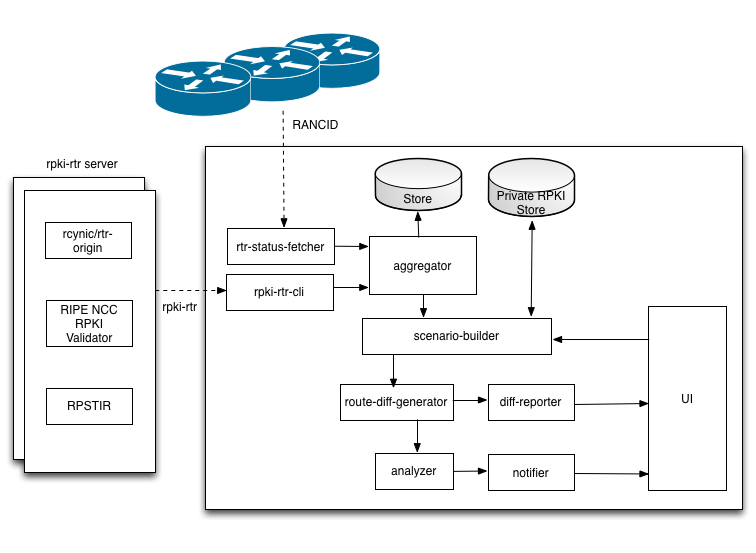
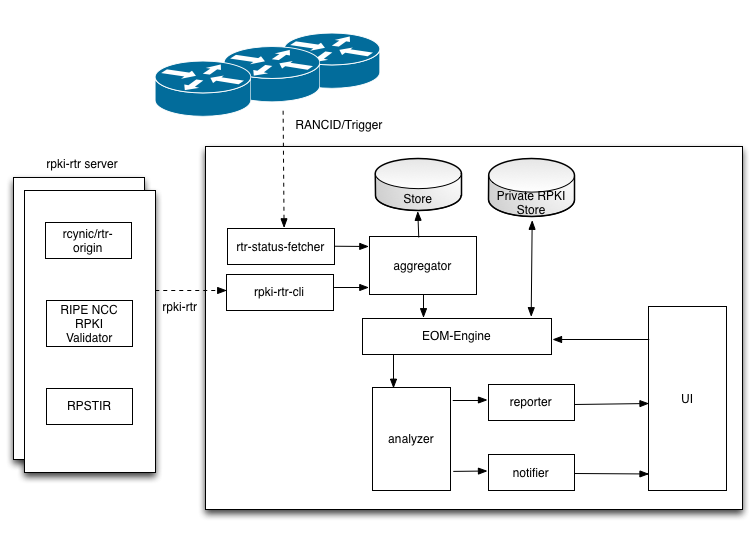
Minor updates to design document

diff --git a/design/body.tex b/design/body.tex
@@ -62,10 +62,10 @@ New data will be fed by the rpki-rtr-cli and rtr-status-fetcher
 modules and existing data will be queried by other modules that wish to
 analyze such data under various operational scenarios. 
 
-\subsection{scenario builder}
+\subsection{EOM-engine}
 
-The scenario-builder module will be responsible for providing the
-central funcionality for enabling a network operator to configure and
+The EOM-Engine module will be responsible for providing the
+central functionality for enabling a network operator to configure and
 develop various types of operational scenarios and router policies to
 study the impact of RPKI validation on their network operations. 
 
@@ -74,32 +74,26 @@ the types of analyses that are to be performed. It will access previously
 saved router and RPKI cache data through the aggregator module and
 prepare the data for subsequent analysis by other modules.
 
-In order to build scenarious that include misconfigured or particular
-forms of RPKI validation data, the scenario-builder will also interface
+In order to build scenarios that include misconfigured or particular
+forms of RPKI validation data, the EOM engine will also interface
 with a private RPKI store that will allow the user to build test ROAs on
 the fly to simulate various prefix assignment and certification
 conditions.
 
-\subsection{route-diff-generator}
+\subsection{analyzer}
 
 This module will provide the first level of analysis over the different
-streams of data that are made available by the scenario-builder.
+streams of data that are made available by the EOM-Engine.
 The primary function of this module will be to detect and flag
 differences in the routing state for different operational scenarios.
 
-\subsection{diff-reporter}
+\subsection{reporter}
 
-The diff-reporter module will take the raw results generated by the
-route-diff-generator module and will transform that data to a form that
+The reporter module will take the raw results generated by the
+analyzer module and will transform that data to a form that
 is useful for user consumption. Differences will initially be represented as
 simple text but will later be color coded and marked up to clearly
 highlight any differences. 
-
-\subsection{analyzer}
-
-The analyzer module will operate on data generated by the
-route-diff-generator to make inferences about potential routing level
-inconsistencies that may be useful to flag to the user. 
 
 \subsection{notifier}
 
@@ -135,8 +129,8 @@ that the tool provides the ability to analyze routing information
 extracted from a border router and produce a one time text report of
 route validity.
 
-The aggregator, analyzer, notifier and scenario-builder modules will
-be stubbed out and will provide only basic API compatibiity. 
+The aggregator, analyzer, notifier and EOM-Engine modules will
+be stubbed out and will provide only basic API compatibility. 
 
 \subsection{Phase 2}
 
@@ -146,7 +140,7 @@ capability to the aggregator, route-diff-generator and diff-reporter modules
 to produce enhanced reporting capabilities through a web-based
 front-end.
 
-We will also add initial capability to the scenario builder to
+We will also add initial capability to the EOM Engine to
 help the operator assess the effects of RPKI validation under 
 different router policy (e.g. local-pref) settings. 
 
@@ -155,7 +149,7 @@ different router policy (e.g. local-pref) settings.
 In this phase we will enhance the EOM tool to provide post-deployment
 monitoring support in addition to supporting pre-deployment planning. 
 
-The scenario-builder component will be enhanced to support the inclusion
+The EOM Engine component will be enhanced to support the inclusion
 of custom RPKI data fed through a private RPKI store, which will be
 anchored to a private Trust Anchor. 
 
@@ -186,7 +180,7 @@ revisted in due course.
 %\subsection{rpki-rtr-cli}
 %\subsection{rtr-status-fetcher}
 %\subsection{aggregator/store}
-%\subsection{scenario builder}
+%\subsection{EOMEngine}
 %\subsection{route-diff-generator}
 %\subsection{diff-reporter}
 %\subsection{analyzer}
